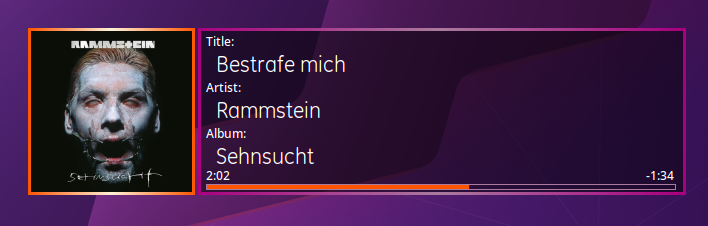
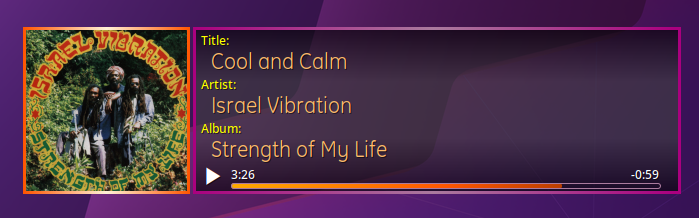
Made some improvements

diff --git a/README.md b/README.md
@@ -24,6 +24,7 @@ To use this configuratsion, you need the following tools:
 - **Conky**: A lightweight system monitor.
 - **ImageMagick**: For album art conversion to a suitable format.
 - **Spotify**: With DBus support enabled.
+- **Symbola font** For the Redone version play/pause symbol
 
 ## Why PNG Conversion?s
 This setup converts Spotify album art from JPG to PNG format using ImageMagick in the `cover.sh` script. The reasons for this conversion are:
